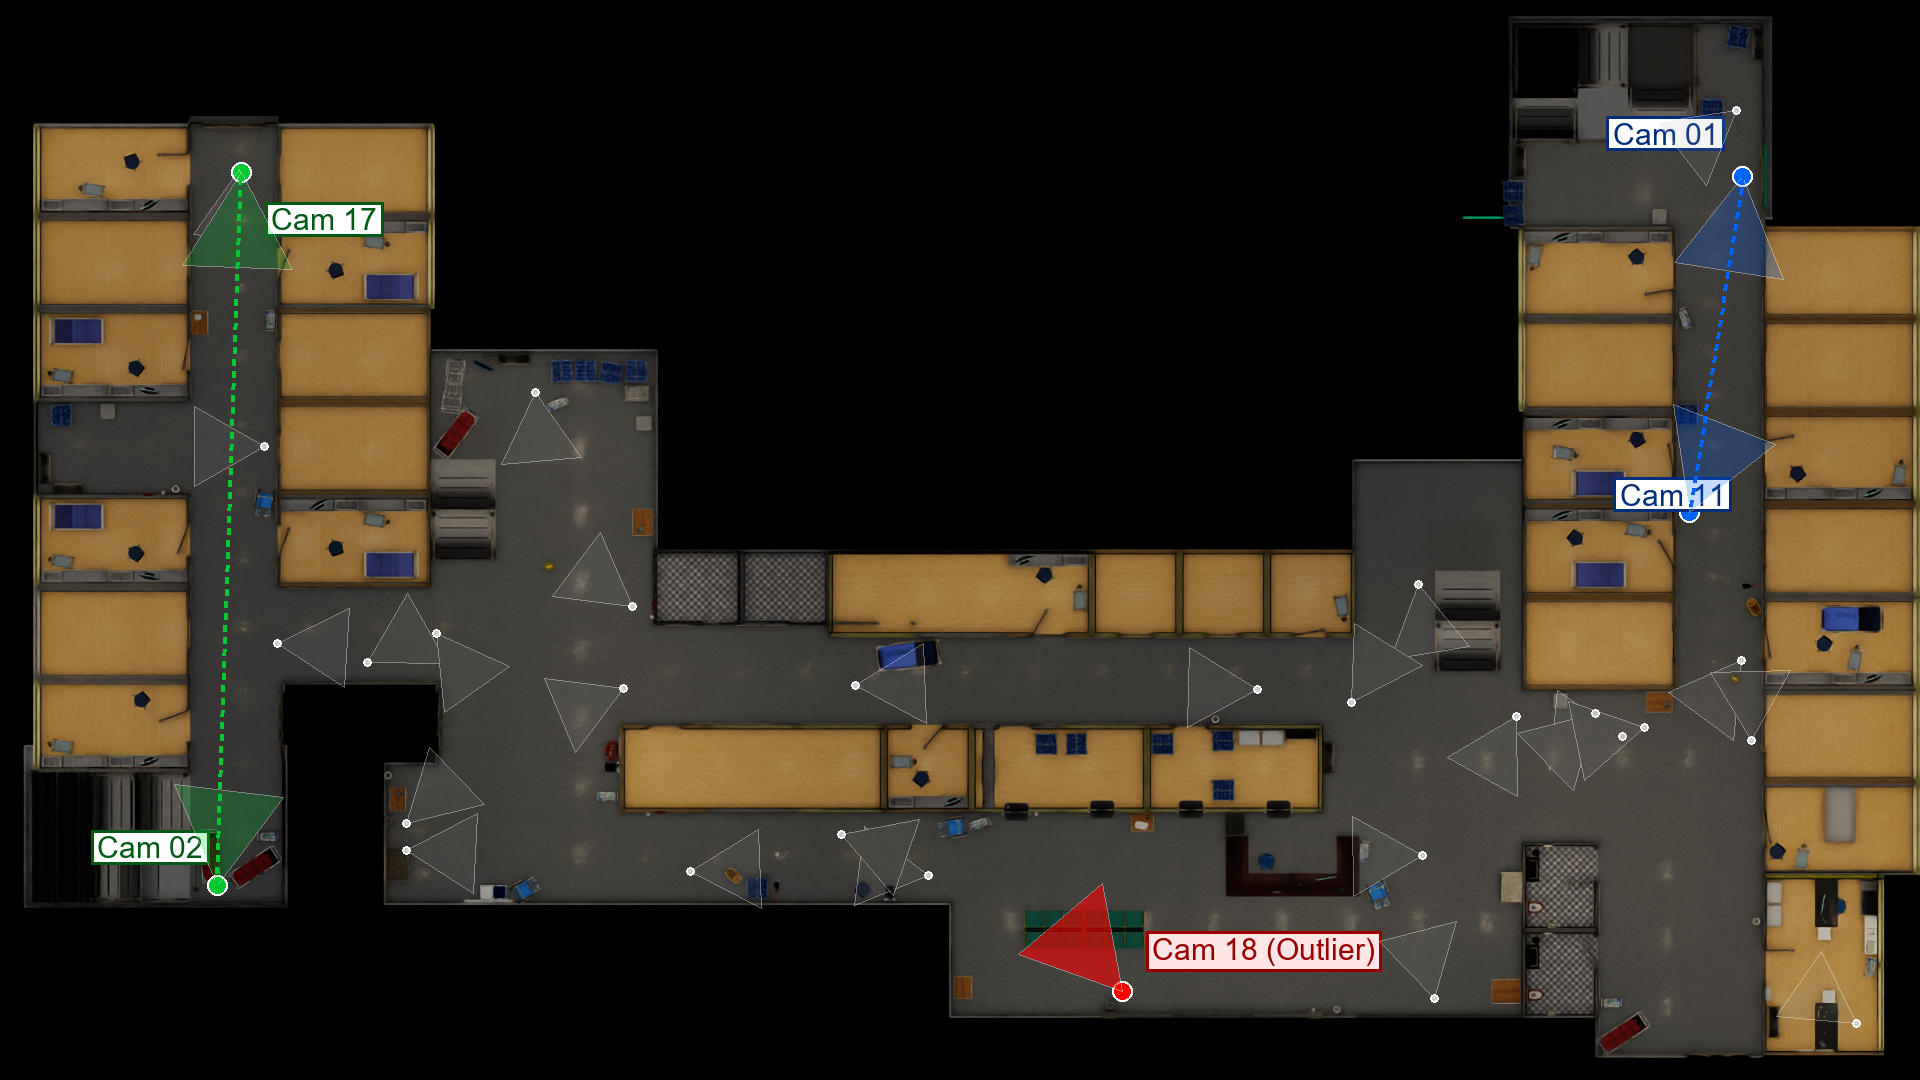
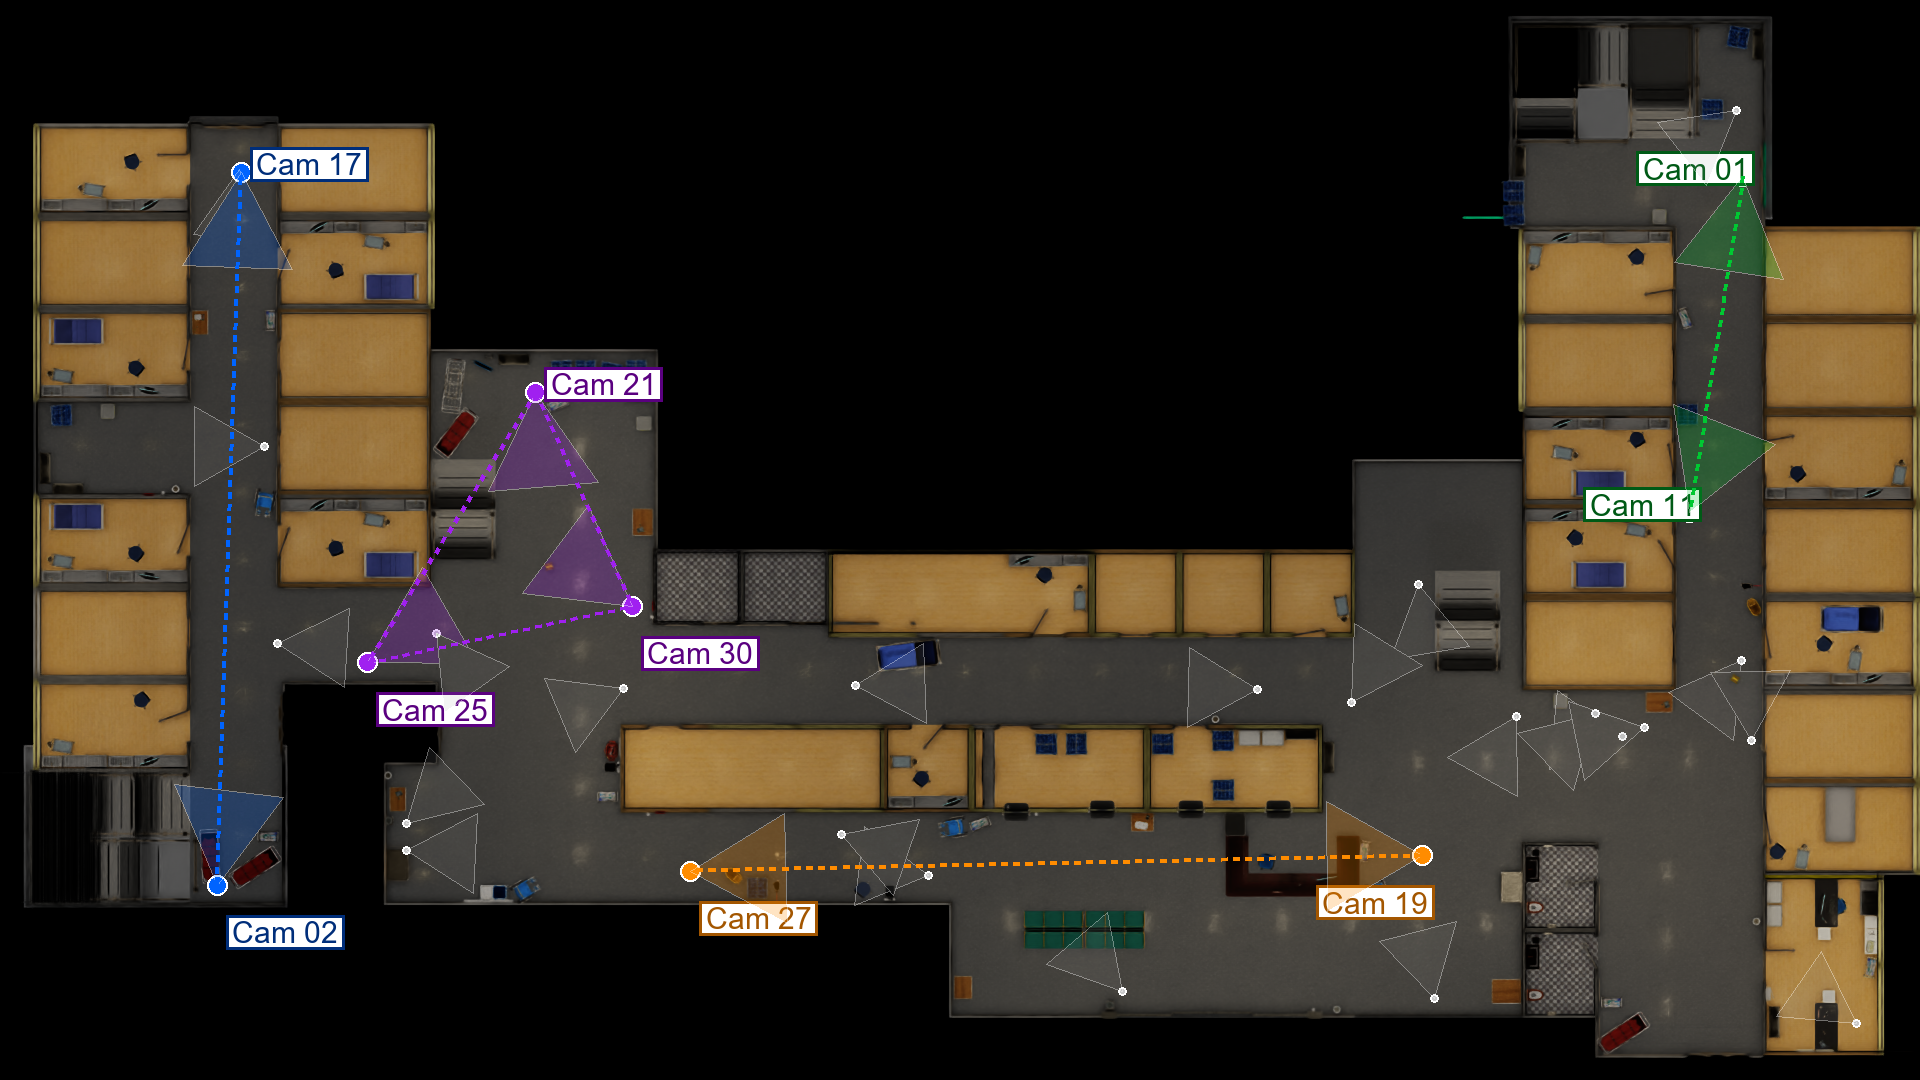
Update the image for new groupings

diff --git a/paper/streamtrack_mcot_draft.tex b/paper/streamtrack_mcot_draft.tex
@@ -404,11 +404,11 @@ While the streaming architecture provides a significant baseline improvement, th
 \begin{figure}[H]
     \centering
     \includegraphics[width=0.85\linewidth]{Evidence/map_topology.png}
-    \caption{Topological partitioning in the NVIDIA SmartSpaces network. The figure illustrates how cameras with overlapping fields of view form localized clusters that are joined as independent stream topologies, while spatially distant cameras are excluded from comparison. Grouping cameras that share no physical overlap eliminates unnecessary algorithmic complexity from the association stage.}
+    \caption{Topological partitioning of the 9-camera NVIDIA SmartSpaces network. Four topology-aware groups are shown: Group 1 (Cameras 02, 17---blue), Group 2 (Cameras 01, 11---green), Group 3 (Cameras 19, 27---orange), and Group 4 (Cameras 21, 25, 30---purple). Cameras within each group share overlapping fields of view and are joined as independent stream topologies.}
     \label{fig:topology_map}
 \end{figure}
 
-To quantify this optimization, we expanded the test environment to include 9 cameras (01, 11, 13, 17, 19, 21, 25, 27, 30) from the NVIDIA SmartSpaces dataset and compare the \textbf{Global} (single-group) execution against the \textbf{Topology-Aware} (4-group) partitioning. Table~\ref{tab:9camera_performance} summarizes the results.
+To quantify this optimization, we expanded the test environment to include 9 cameras (01, 02, 11, 17, 19, 21, 25, 27, 30) from the NVIDIA SmartSpaces dataset and compare the \textbf{Global} (single-group) execution against the \textbf{Topology-Aware} (4-group) partitioning. Table~\ref{tab:9camera_performance} summarizes the results.
 
 \begin{table}[H]
     \centering
